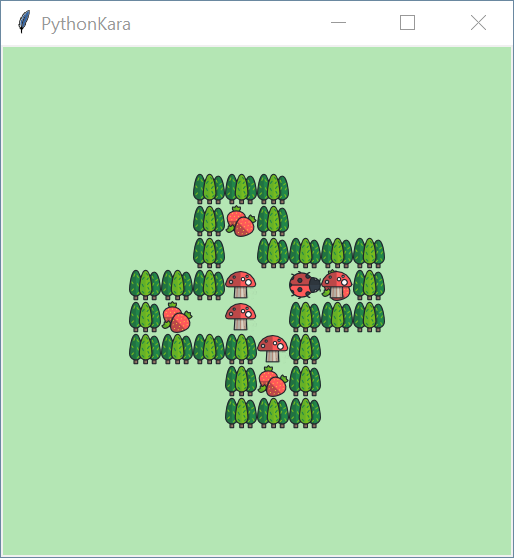
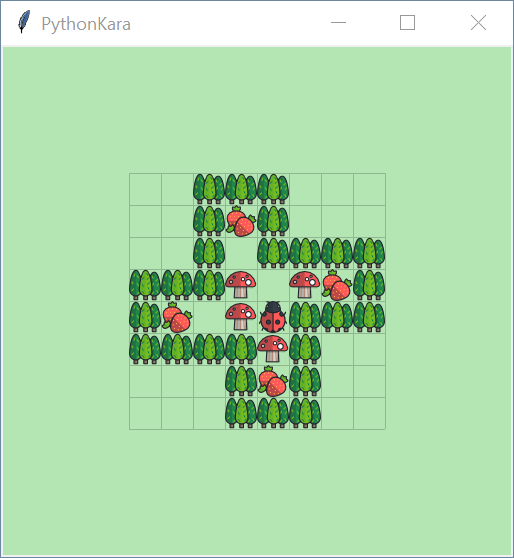
change and add tasks and test cases +improve level stability

diff --git a/tests.py b/tests.py
@@ -40,111 +40,110 @@ levels = [
         """
     , #3
         """
- # 
+   
  @ 
    
         """
     , #4
         """
    
- @ 
+ + 
    
         """
     , #5
         """
-@    .
+@      .
         """
     , #6
         """
-@    .
+@   .
         """
     , #7
         """
-@      #
+@              #
         """
     , #8
         """
-@ . ..  #
+@ . ... .  #
         """
     , #9
         """
          
-@ # # # .
+@ # # # # # .
         """
     , #10
         """
          
-@ ### # ##.
+@ ### #  #.
         """
     , #11
         """
-     
-    #### 
-   #...# 
-  #....# 
- #.....# 
-  #..##
- #..#
-  ###
-    @   
+
+ #######
+ #.....#
+ #.###.#
+ #.# #.#
+ #.# #.#
+ #.# #.#
+ ### ###
+     @     
         """
     , #12
-        """
-
-@# # # 
-
-        """
-    , #13
         """
 
 @# # # # # 
 
         """
+    , #13
+        """
+
+@# # # 
+
+        """
     , #14
         """
 #        
-#....... 
-#      . 
- ..... . 
- .   . . 
- ... . . 
-   . ... 
+#........ 
+#       . 
+ .....  . 
+ .   .  . 
+ ... .  . 
+   . .... 
  +..     
          
         """
     , #15
         """
    
-#@ 
- 
+ @ 
+ # 
         """
     , #16
         """
-        #.
-        # 
-        # 
-        # 
-######### 
+       #.
+       # 
+       # 
+       # 
+######## 
  @
         """
     , #17
         """
- #.#
- # #
- # #
-#  #
+#.#
 # #
-#@#
+# #
+#  #
+ # #
+ #@#
         """
     , #18
         """
-@     #
+@    .#
         """
     , #19
           """
-        .
-       ..
-      ..
+       #
+      .
      ..
     ..
    ..
@@ -154,7 +153,7 @@ levels = [
     , #20
         """
 
-@# # # # 
+@# # # # # # 
 
         """
     , #21
@@ -176,14 +175,14 @@ levels = [
         """
     , #22
         """
-    .
-#### ####
-#       #
-# #######
-#       #
-#### ####
-# @     #
-#########
+ .
+# ######
+#      #
+# ######
+#      #
+# ######
+#     @#
+########
         """
     ,
 ]

diff --git a/kara.py b/kara.py
@@ -55,10 +55,20 @@ def load_level():
             level[index] = list(line)
         level = level[1:len(level)-1]
     
+    #find max
     offset_y = len(level)-1
     offset_x = 0
     for line in level:
         if len(line)-1 > offset_x: offset_x = len(line)-1
+        
+    #add missing empty fields if needed
+    for index, line in enumerate(level):
+        diff = int(offset_x - len(line)-1)
+        if(diff > 0):
+            for i in range(diff):
+                level[index].append(' ')
+    
+    #cell to pixel
     offset_y = (HEIGHT - offset_y * CELL_SIZE) / 2
     offset_x = (WIDTH - offset_x * CELL_SIZE) / 2
 
@@ -118,7 +128,7 @@ def move():
         dx = -1
     elif player_rotation == 'down':
         dy = 1
-    
+
     _move(player_x, player_y, dx, dy)
 
 def _move(player_x, player_y, dx, dy):
@@ -300,9 +310,6 @@ def draw():
     for line in level:
         if len(line)-1 > cells_x: cells_x = len(line)-1
         
-    print(level)
-    print(cells_y)
-    print(cells_x)
     for y in range(cells_y+2):
         canvas.create_line(
             (offset_x - CELL_SIZE/2, offset_y + y * CELL_SIZE - CELL_SIZE/2), #start

diff --git a/task19.py b/task19.py
@@ -1,14 +1,14 @@
 from levels import * # Lade alle Level
 TIME_S = 0.5 # Wartezeit zwischen den Schritten
 
-current_level = 11 # aktuelles Level auswählen
+current_level = 19 # aktuelles Level auswählen
 
 exec(open("kara.py").read()) # Startet Kara
 
 # Sensoren: onBerry(), treeFront(), treeLeft(), treeRight(), mushroomFront()
 # Aktoren: move(), turnLeft(), turnRight(), putBerry(), removeBerry()
 
-# Kara möchte um ihren Wald im Uhrzeigersinn patrouillieren, um die köstlichen Erdbeeren vor einer Horde Brokkolies zu schützen.
-# Programmiere Kara so, dass sie endlos im Uhrzeigersinn um alle Wälder laufen kann.
+# Kara zieht fröhlich ihr Frühstücksbrötchen über die Wiese. Läuft Sie nur über Erdbeeren schmeckt es danach sehr gut,
+# sonst schmeckt das Brötchen eher nach Schnittlauch. Laufe über alle Erdbeeren.
 
 turnRight()

diff --git a/task22.py b/task22.py
@@ -1,0 +1,17 @@
+from levels import * # Lade alle Level
+TIME_S = 0.5 # Wartezeit zwischen den Schritten
+
+current_level = 22 # aktuelles Level auswählen
+
+exec(open("kara.py").read()) # Startet Kara
+
+# Sensoren: onBerry(), treeFront(), treeLeft(), treeRight(), mushroomFront()
+# Aktoren: move(), turnLeft(), turnRight(), putBerry(), removeBerry()
+
+# Führe Kara durch das Labyrinth zu den Erdbeeren.
+# Jede horizontale Baumreihe, außer der Untersten, hat genau einen Ausgang, der in die nächst höhere Zeile führt.
+# Diesen muss Kara jeweils finden. Hinter dem letzten Ausgang wartet das Kleeblatt auf sie.
+# Programmiere Kara so, dass sie die Erdbeeren findet und aufnimmt. Dabei soll sie nie an ihrem Ausgang vorbeilaufen, ohne ihn zu benutzen!
+# Zu Beginn schaut Kara immer nach rechts.
+
+turnRight

diff --git a/task18.py b/task18.py
@@ -1,14 +1,14 @@
 from levels import * # Lade alle Level
 TIME_S = 0.5 # Wartezeit zwischen den Schritten
 
-current_level = 11 # aktuelles Level auswählen
+current_level = 1 # aktuelles Level auswählen
 
 exec(open("kara.py").read()) # Startet Kara
 
 # Sensoren: onBerry(), treeFront(), treeLeft(), treeRight(), mushroomFront()
 # Aktoren: move(), turnLeft(), turnRight(), putBerry(), removeBerry()
 
-# Kara möchte um ihren Wald im Uhrzeigersinn patrouillieren, um die köstlichen Erdbeeren vor einer Horde Brokkolies zu schützen.
-# Programmiere Kara so, dass sie endlos im Uhrzeigersinn um alle Wälder laufen kann.
+# Kara soll bis zu dem Baum laufen. Ist davor eine Beere isst sie diese heimlich.
+# Liegt vor dem Baum keine Beere legt sie um den Waldgott zu huldigen eine ab.
 
-turnRight()
+move()

diff --git a/task12.py b/task12.py
@@ -8,6 +8,6 @@ exec(open("kara.py").read()) # Startet Kara
 # Sensoren: onBerry(), treeFront(), treeLeft(), treeRight(), mushroomFront()
 # Aktoren: move(), turnLeft(), turnRight(), putBerry(), removeBerry()
 
-# Kara möchte zwischen den Bäumen Slalom fahren. Der Anfang des Slaloms ist im Bild eingezeichnet. Programmiere Kara, so dass sie den Slalom endlos hin- und zurück fährt. Wie lange der Parcour ist (wieviele Bäume der Slalom hat), weiß Kara zu Beginn natürlich nicht.
-
-turnRight()
+# Kara möchte zwischen den Bäumen Slalom fahren. Der Anfang des Slaloms ist im Bild eingezeichnet.
+# Programmiere Kara, so dass sie den Slalom endlos hin- und zurück fährt.
+# Wie lange der Parcour ist (wieviele Bäume der Slalom hat), weiß Kara zu Beginn natürlich nicht.

diff --git a/task17.py b/task17.py
@@ -1,14 +1,13 @@
 from levels import * # Lade alle Level
 TIME_S = 0.5 # Wartezeit zwischen den Schritten
 
-current_level = 11 # aktuelles Level auswählen
+current_level = 17 # aktuelles Level auswählen
 
 exec(open("kara.py").read()) # Startet Kara
 
 # Sensoren: onBerry(), treeFront(), treeLeft(), treeRight(), mushroomFront()
 # Aktoren: move(), turnLeft(), turnRight(), putBerry(), removeBerry()
 
-# Kara möchte um ihren Wald im Uhrzeigersinn patrouillieren, um die köstlichen Erdbeeren vor einer Horde Brokkolies zu schützen.
-# Programmiere Kara so, dass sie endlos im Uhrzeigersinn um alle Wälder laufen kann.
+# Kara rennt fröhlich zur Erdbeere. Aber halt ist vor ihr ein Baum muss Sie diesen nach rechts oder links umlaufen.
 
-turnRight()
+move()

diff --git a/task16.py b/task16.py
@@ -1,14 +1,14 @@
 from levels import * # Lade alle Level
 TIME_S = 0.5 # Wartezeit zwischen den Schritten
 
-current_level = 11 # aktuelles Level auswählen
+current_level = 16 # aktuelles Level auswählen
 
 exec(open("kara.py").read()) # Startet Kara
 
 # Sensoren: onBerry(), treeFront(), treeLeft(), treeRight(), mushroomFront()
 # Aktoren: move(), turnLeft(), turnRight(), putBerry(), removeBerry()
 
-# Kara möchte um ihren Wald im Uhrzeigersinn patrouillieren, um die köstlichen Erdbeeren vor einer Horde Brokkolies zu schützen.
-# Programmiere Kara so, dass sie endlos im Uhrzeigersinn um alle Wälder laufen kann.
+# Schreibe ein Programm, welches Kara mit möglichst wenig Befehlen zur Erdbeere führt.
 
 turnRight()
+move()

diff --git a/task15.py b/task15.py
@@ -1,14 +1,13 @@
 from levels import * # Lade alle Level
 TIME_S = 0.5 # Wartezeit zwischen den Schritten
 
-current_level = 11 # aktuelles Level auswählen
+current_level = 15 # aktuelles Level auswählen
 
 exec(open("kara.py").read()) # Startet Kara
 
 # Sensoren: onBerry(), treeFront(), treeLeft(), treeRight(), mushroomFront()
 # Aktoren: move(), turnLeft(), turnRight(), putBerry(), removeBerry()
 
-# Kara möchte um ihren Wald im Uhrzeigersinn patrouillieren, um die köstlichen Erdbeeren vor einer Horde Brokkolies zu schützen.
-# Programmiere Kara so, dass sie endlos im Uhrzeigersinn um alle Wälder laufen kann.
+# Kara soll sich so lange nach links drehen, bis sie einen netten Baum anschaut.
 
-turnRight()
+

diff --git a/task20.py b/task20.py
@@ -1,14 +1,13 @@
 from levels import * # Lade alle Level
 TIME_S = 0.5 # Wartezeit zwischen den Schritten
 
-current_level = 11 # aktuelles Level auswählen
+current_level = 1 # aktuelles Level auswählen
 
 exec(open("kara.py").read()) # Startet Kara
 
 # Sensoren: onBerry(), treeFront(), treeLeft(), treeRight(), mushroomFront()
 # Aktoren: move(), turnLeft(), turnRight(), putBerry(), removeBerry()
 
-# Kara möchte um ihren Wald im Uhrzeigersinn patrouillieren, um die köstlichen Erdbeeren vor einer Horde Brokkolies zu schützen.
-# Programmiere Kara so, dass sie endlos im Uhrzeigersinn um alle Wälder laufen kann.
+# Schon wieder Slaloms? Ja, aber diesmal musst du variabel sein. ;-)
 
-turnRight()
+move()

diff --git a/task08.py b/task08.py
@@ -8,6 +8,8 @@ exec(open("kara.py").read()) # Startet Kara
 # Sensoren: onBerry(), treeFront(), treeLeft(), treeRight(), mushroomFront()
 # Aktoren: move(), turnLeft(), turnRight(), putBerry(), removeBerry()
 
-# Schreibe ein Programm, das Kara bis zu ihrem Freund dem Baum führt. Liegen auf einem Feld Erdbeeren, soll Kara diese aufnehmen; liegen auf einem Feld keine Erdbeeren, soll sie welche ablegen. Bei dem Baum angekommen, ist Kara fertig.
+# Schreibe ein Programm, das Kara bis zu ihrem Freund dem Baum führt.
+# Liegen auf einem Feld Erdbeeren, soll Kara diese aufnehmen; liegen auf einem Feld keine Erdbeeren, soll sie welche ablegen.
+# Bei dem Baum angekommen, ist Kara fertig.
 
 turnRight()

diff --git a/task21.py b/task21.py
@@ -1,0 +1,15 @@
+from levels import * # Lade alle Level
+TIME_S = 0.5 # Wartezeit zwischen den Schritten
+
+current_level = 21 # aktuelles Level auswählen
+
+exec(open("kara.py").read()) # Startet Kara
+
+# Sensoren: onBerry(), treeFront(), treeLeft(), treeRight(), mushroomFront()
+# Aktoren: move(), turnLeft(), turnRight(), putBerry(), removeBerry()
+
+# Programmiere Kara so, dass sie eine Kleeblatt-Spirale (bei uns eine Erdbeerspirale) wie die unten dargestellte zeichnet.
+# Kara läuft dabei aus deren unteren Ecke los. Jede Seite wird genau 1 Kleeblatt kürzer als die Vorangehende.
+# Die erste Linie soll 14 Kleeblätter lang sein.
+
+putBerry()
